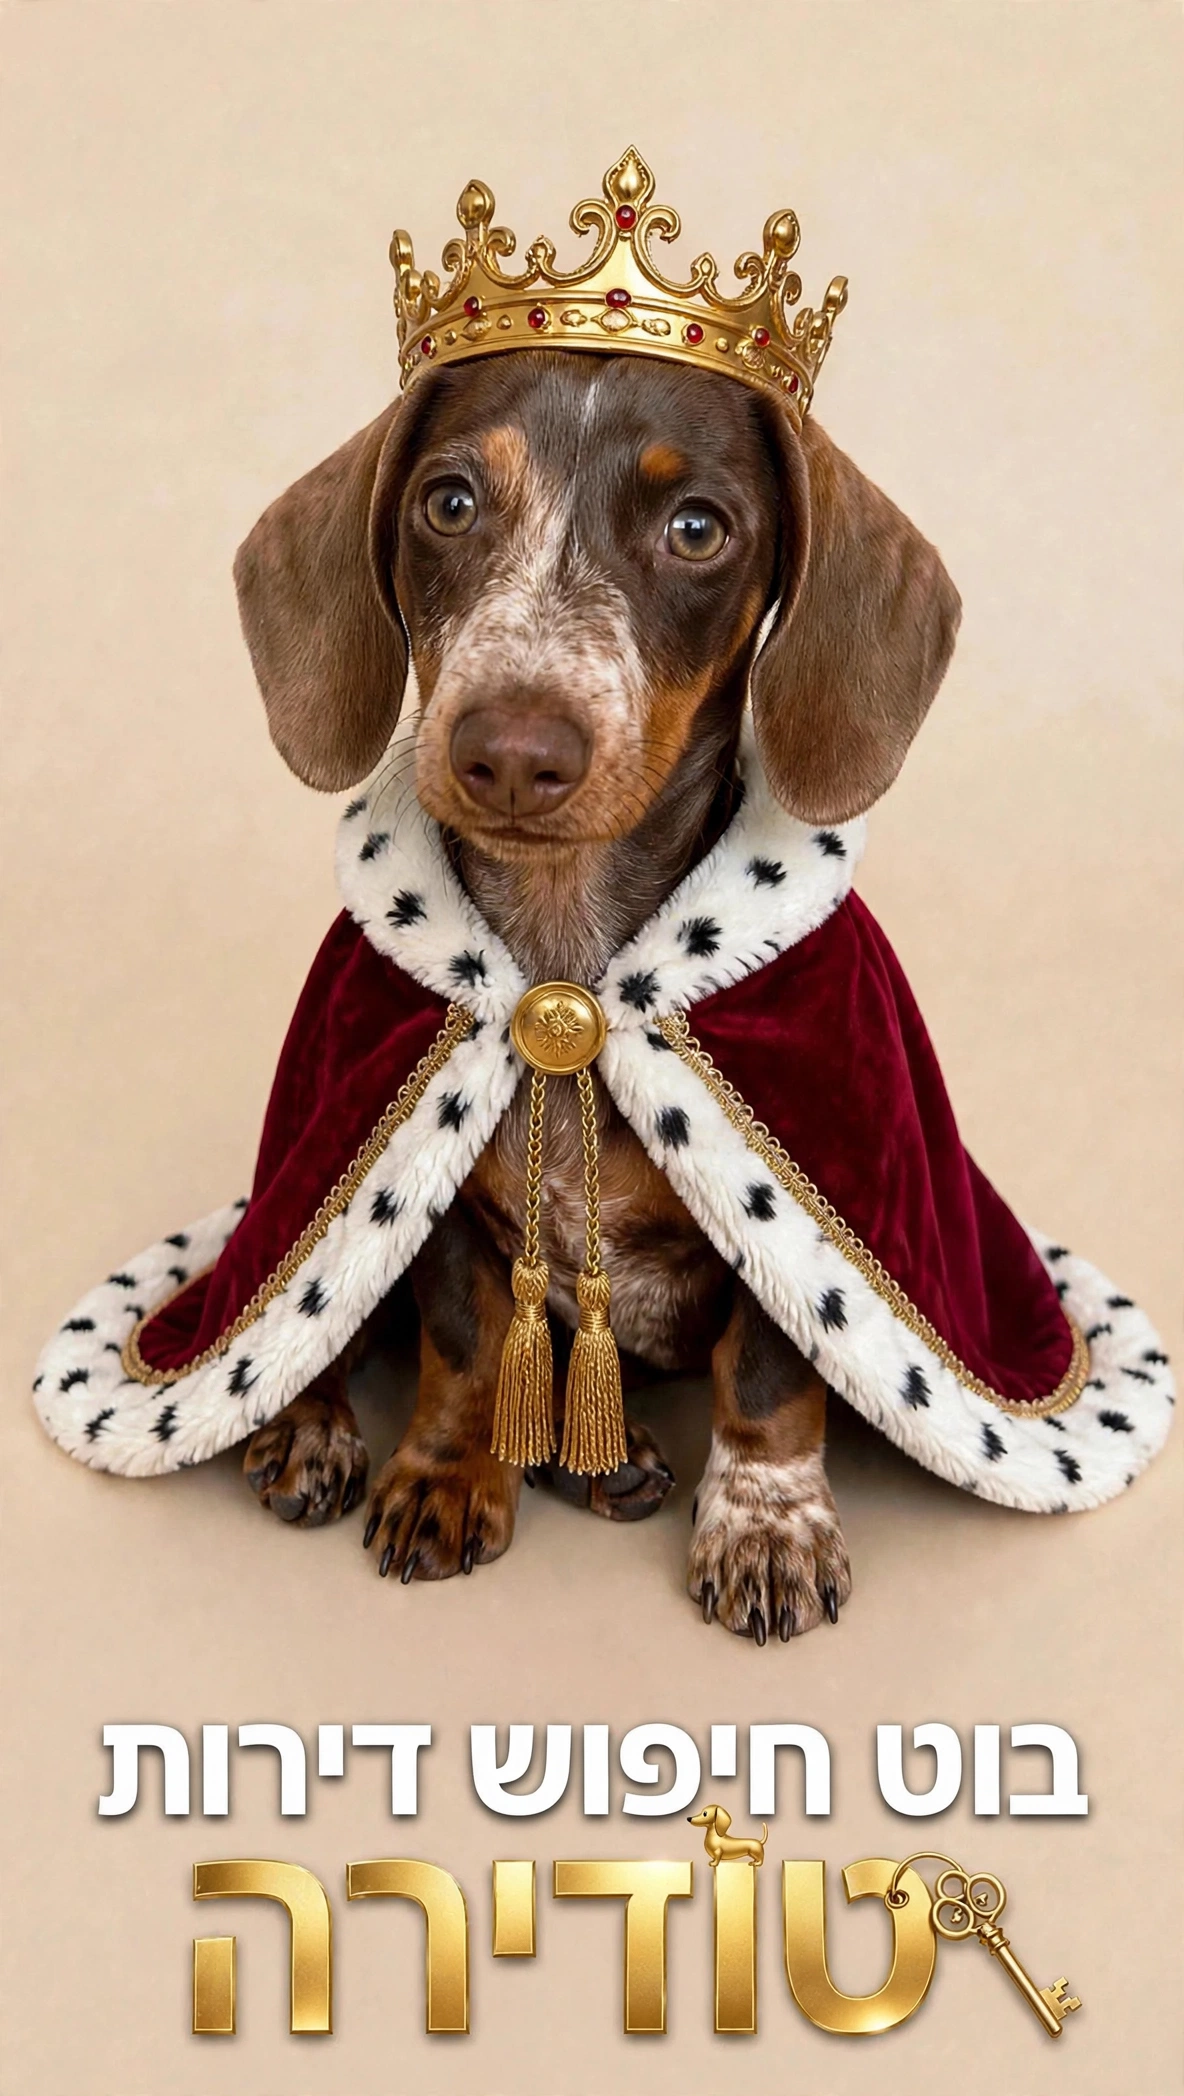
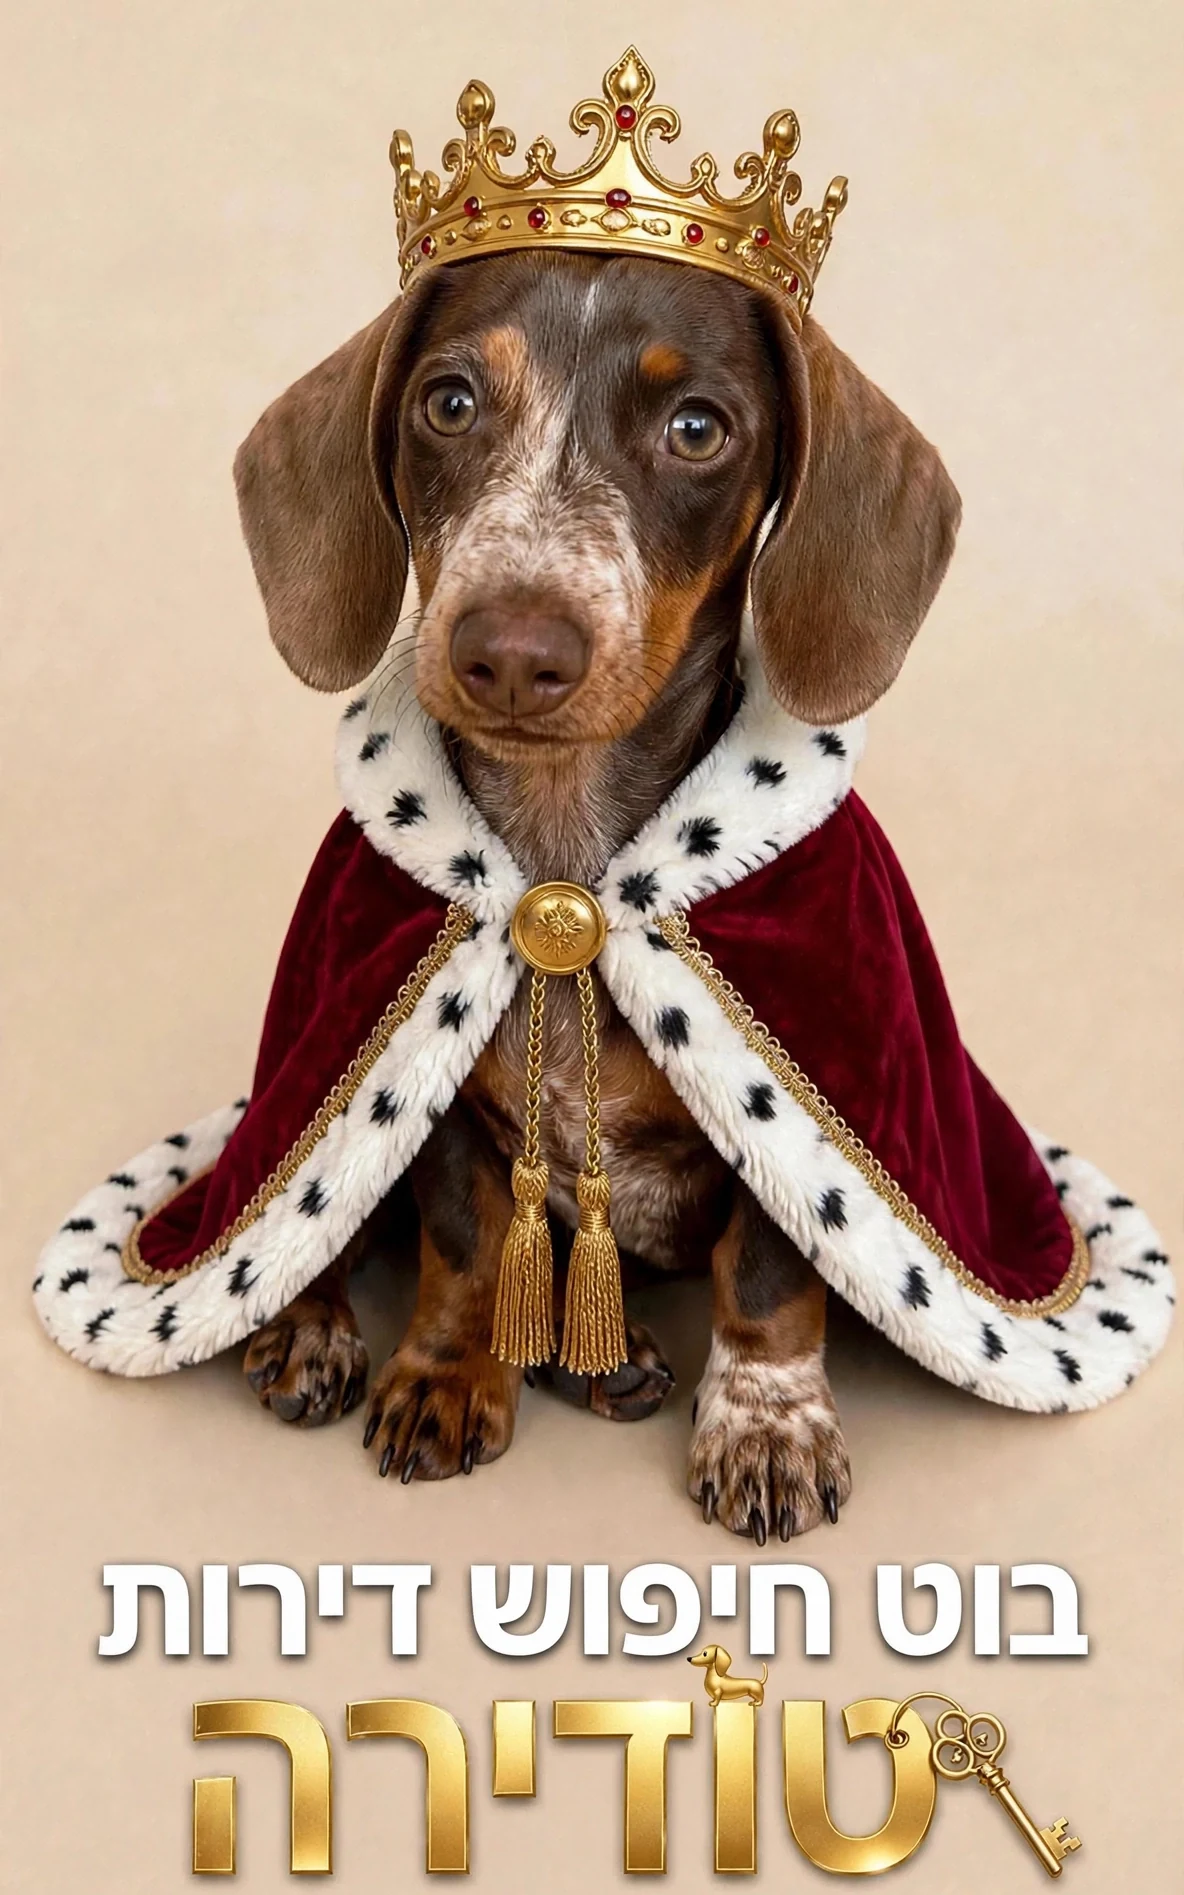
Trim the hero image's dead space instead of CSS-cropping content
Owner reported the previous fix (full-bleed + object-fit:cover with a
capped height) lost the bottom of the image - the "בוט חיפוש דירות
טודירה" logo text, plus the small dog/key icons - since a capped
height at full device width can only show a partial vertical slice of
a 2096px-tall source, and the crop was anchored to the top.

Real fix: there was never a need to crop real content - most of the
"extra" height was dead space (~450px total of near-uniform
background: padding above the crown, and a ~60px empty gap between
the paws and the logo text, both confirmed via row-wise pixel
variance analysis, not guessed). Rebuilt the source image by keeping
the crown-to-paws slice and the logo-text slice with that dead space
removed (invisible seam, verified visually) - 1184x2096 -> 1184x1895,
which at full mobile width now displays at a natural, complete height
with zero CSS cropping needed. Reverted .hero-image-full to simple
full-width/auto-height (no object-fit:cover, no height cap) since the
source itself is now already appropriately proportioned.

Verified locally with Playwright at a real iPhone viewport (393x852,
3x DPR): the entire image - crown, face, cape, paws, full logo with
both icons - is now visible within one natural scroll, full width, no
cropping, no dead space.

diff --git a/website/templates/base.html b/website/templates/base.html
@@ -9,12 +9,12 @@
   <meta property="og:site_name" content="טודירה">
   <meta property="og:title" content="טודירה — חיפוש דירות בזמן אמת">
   <meta property="og:description" content="בוט חיפוש דירות אישי שסורק את שוק הדירות ומתריע לך ברגע שמופיעה דירה שמתאימה בדיוק לסינון שלך.">
-  <meta property="og:image" content="{{ request.base_url }}static/todira-brand.webp?v=3">
+  <meta property="og:image" content="{{ request.base_url }}static/todira-brand.webp?v=4">
   <meta property="og:url" content="{{ request.url }}">
   <meta name="twitter:card" content="summary_large_image">
   <meta name="twitter:title" content="טודירה — חיפוש דירות בזמן אמת">
   <meta name="twitter:description" content="בוט חיפוש דירות אישי שסורק את שוק הדירות ומתריע לך ברגע שמופיעה דירה שמתאימה בדיוק לסינון שלך.">
-  <meta name="twitter:image" content="{{ request.base_url }}static/todira-brand.webp?v=3">
+  <meta name="twitter:image" content="{{ request.base_url }}static/todira-brand.webp?v=4">
   <link rel="preconnect" href="https://fonts.googleapis.com">
   <link rel="preconnect" href="https://fonts.gstatic.com" crossorigin>
   <link href="https://fonts.googleapis.com/css2?family=Frank+Ruhl+Libre:wght@500;700;800&family=Rubik:wght@400;500;600;700&display=swap" rel="stylesheet">

diff --git a/website/static/style.css b/website/static/style.css
@@ -118,16 +118,11 @@ main { max-width: 1100px; margin: 0 auto; padding: 32px 20px 80px; }
 .hero-image-full {
   margin: 18px calc(50% - 50vw) 0;
   width: 100vw;
-  height: clamp(320px, 60vh, 560px);
-  overflow: hidden;
 }
-.hero-image-full img {
-  width: 100%; height: 100%; display: block;
-  object-fit: cover; object-position: center top;
-}
+.hero-image-full img { width: 100%; height: auto; display: block; }
 @media (min-width: 700px) {
-  .hero-image-full { display: flex; justify-content: center; background: var(--bg); height: 560px; overflow: visible; }
-  .hero-image-full img { width: auto; max-width: 100%; height: 560px; object-fit: initial; object-position: initial; }
+  .hero-image-full { display: flex; justify-content: center; background: var(--bg); }
+  .hero-image-full img { width: auto; max-width: 100%; height: 560px; }
 }
 
 /* ---------- floating stat cards, right under the hero image ---------- */

diff --git a/website/templates/home.html b/website/templates/home.html
@@ -1,6 +1,6 @@
 {% extends "base.html" %}
 {% block title %}טודירה — חיפוש דירות בזמן אמת{% endblock %}
-{% block extra_head %}<link rel="preload" as="image" href="/static/todira-brand.webp?v=3">{% endblock %}
+{% block extra_head %}<link rel="preload" as="image" href="/static/todira-brand.webp?v=4">{% endblock %}
 {% block content %}
 
 <section class="hero reveal">
@@ -14,7 +14,7 @@
 </section>
 
 <div class="hero-image-full reveal">
-  <img src="/static/todira-brand.webp?v=3" alt="טודי המלך — בוט חיפוש דירות טודירה" width="1184" height="2096" fetchpriority="high">
+  <img src="/static/todira-brand.webp?v=4" alt="טודי המלך — בוט חיפוש דירות טודירה" width="1184" height="1895" fetchpriority="high">
 </div>
 
 <div class="hero-float-stats reveal">
